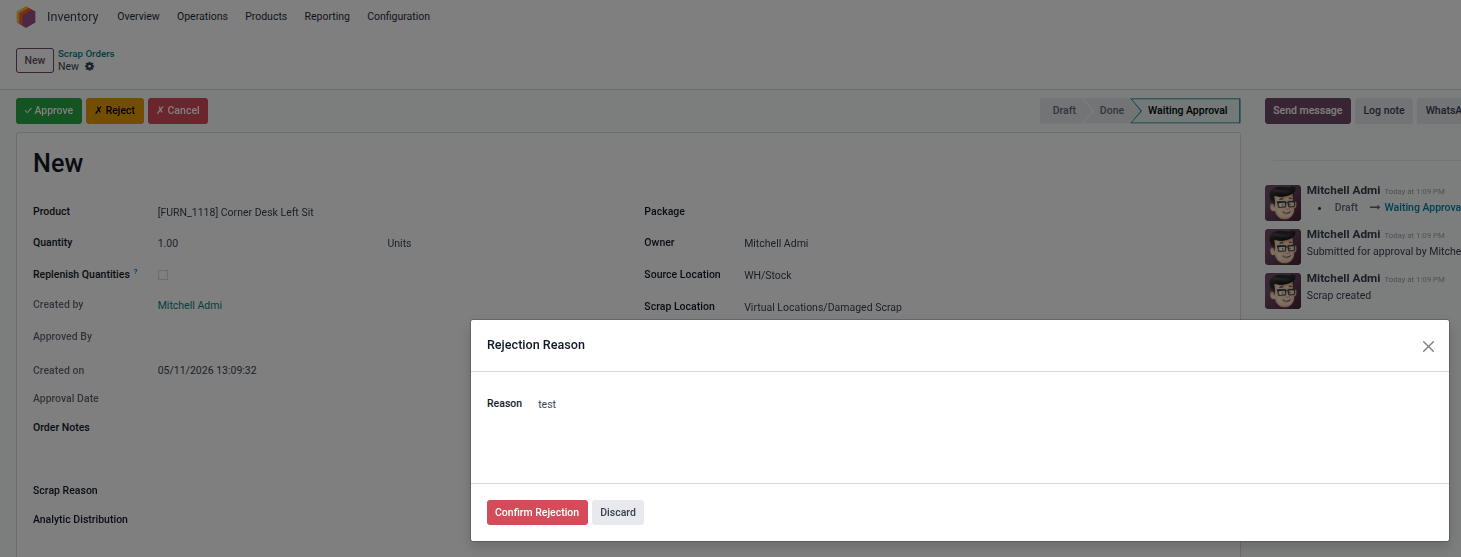
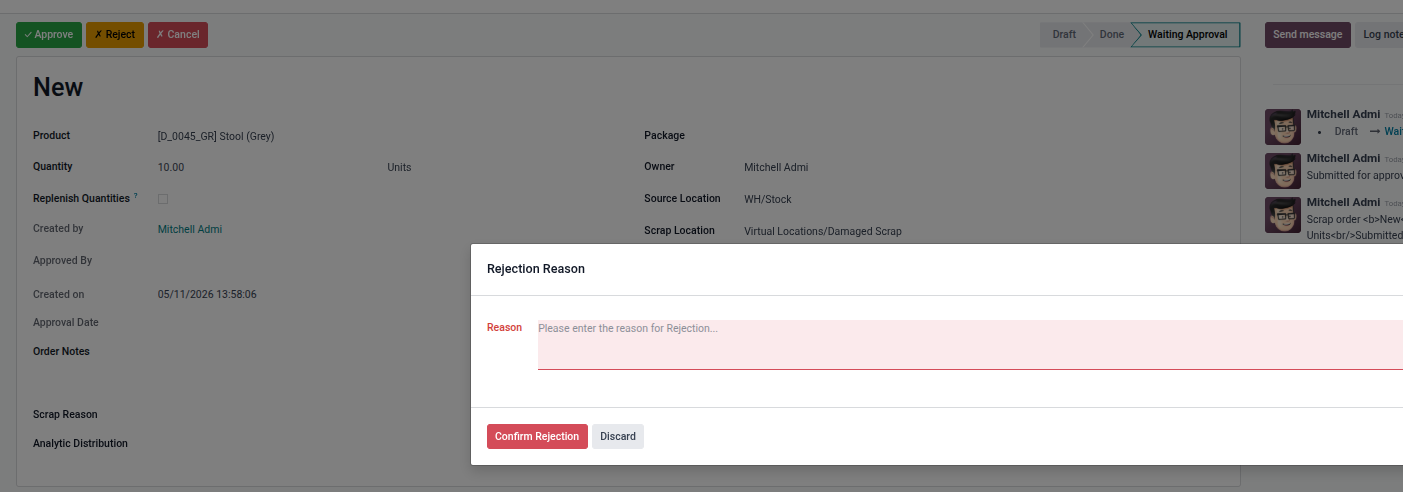
Scrap orders

diff --git a/scrap_approval/static/description/index.html b/scrap_approval/static/description/index.html
@@ -108,13 +108,6 @@
              <p>The system validates the requested quantity against available stock both at submission and approval time. Orders exceeding available stock are blocked with a clear error message.</p>
             <p>The standard Validate button is removed. Orders can only be processed after passing through the full approval workflow.</p>
         </div>
-    </div>
-        <div class="feature">
-        <div class="feature-text">
-            <h3>Manager Notes</h3>
-            p>The Operations Manager can now reject scrap orders with a mandatory reason. A popup appears to capture the rejection reason before changing the status to <strong>Rejected</strong>.</p>
-        </div>
-    </div>
 
     <div class="feature">
         <div class="feature-text">
@@ -130,7 +123,7 @@
         </div>
     </div>
 
-    <h2>Screenshots</h2>
+    <h2> ⚡ Screenshots</h2>
     <p class="screenshot-caption">
         Draft state — employee creates the scrap order and submits it for approval with one click.
     </p>
@@ -138,22 +131,24 @@
     <p class="screenshot-caption">
         .
     </p>
-     
+     <p class="screenshot-caption">
+        The system validates the requested quantity against available stock both at submission and approval time. Orders exceeding available stock are blocked with a clear error message.
+    </p>
+    <img src="val.png" alt="Scrap Order Waiting Approval" class="screenshot"/>
+    <p class="screenshot-caption">
+        .
+    </p>
     <p class="screenshot-caption">
         The Operations Manager can now reject scrap orders with a mandatory reason. A popup appears to capture the rejection reason before changing the status to <strong>Rejected</strong>.
         Users can cancel scrap orders directly from <strong>Draft</strong> or <strong>Waiting Approval</strong> status without going through the approval process.
         Every submitted scrap order automatically gets a 48-hour approval deadline. A scheduled job notifies the Operations Manager when orders are overdue.
-        <img src="reg1.png" alt="Scrap Order Draft" class="screenshot"/>
+    <img src="reg1.png" alt="Scrap Order Draft" class="screenshot"/>
     <img src="reg2.png" alt="Scrap Order Draft" class="screenshot"/>
     <p class="screenshot-caption">
         .
     </p>
 
-     <p class="screenshot-caption">
-        The system validates the requested quantity against available stock both at submission and approval time. Orders exceeding available stock are blocked with a clear error message.
-    </p>
-    <img src="val.png" alt="Scrap Order Waiting Approval" class="screenshot"/>
-
+     
     <p class="screenshot-caption">
         Waiting Approval state — Operations Manager sees Approve and Cancel buttons with full order details and chatter history.
         Scrap orders list showing approval status for each order with instant manager 